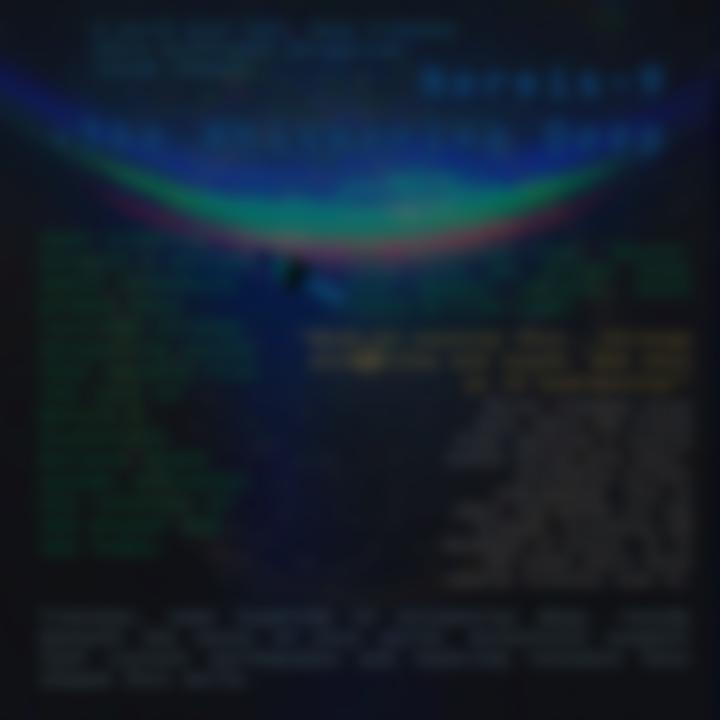
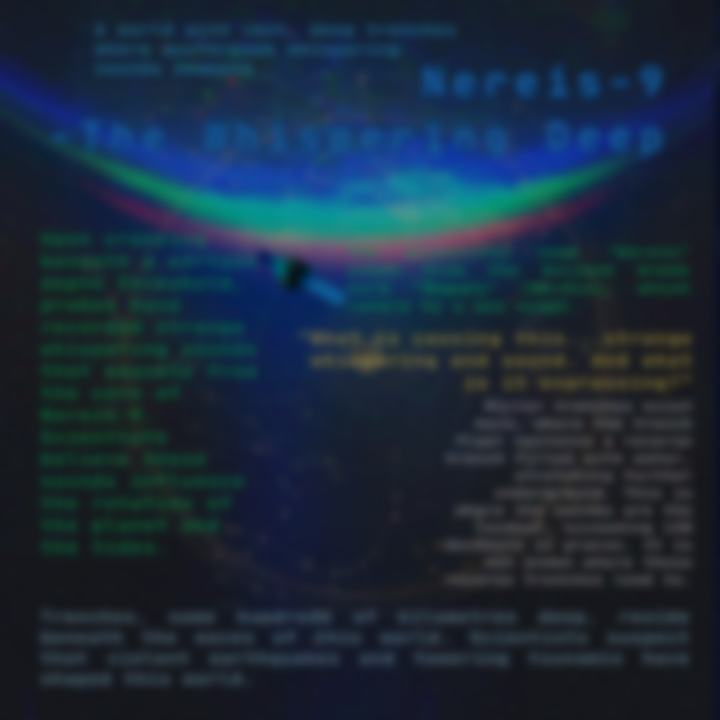
Water Planets booklet: stars and planets instead of bubbles; art shows more behind the text

diff --git a/water-planets.html b/water-planets.html
@@ -58,7 +58,8 @@
   /* each part sits on a soft backdrop of its own page, blurred, so the words always read clearly */
   .band { position: relative; overflow: hidden; padding: 3.6rem 0; isolation: isolate; }
   .band .bd { position: absolute; left: 0; right: 0; top: -16%; bottom: -16%; z-index: -2; background-size: cover; background-position: center; will-change: transform; }
-  .band::after { content: ""; position: absolute; inset: 0; z-index: -1; background: linear-gradient(rgba(5, 13, 24, 0.28), rgba(5, 13, 24, 0.55) 55%, rgba(5, 13, 24, 0.7)); }
+  .band::after { content: ""; position: absolute; inset: 0; z-index: -1; background: linear-gradient(rgba(5, 13, 24, 0.12), rgba(5, 13, 24, 0.34) 55%, rgba(5, 13, 24, 0.5)); }
+  .band p, .band li, .band blockquote, .band h3 { text-shadow: 0 1px 10px rgba(2, 8, 16, 0.9), 0 0 3px rgba(2, 8, 16, 0.8); }
   .band.plain::after { background: none; }
   .band .wrap { position: relative; }
   h2 { margin: 0 0 1.5rem; font-weight: 300; font-size: 1.3em; line-height: 1.35; letter-spacing: 0.08em; color: var(--aqua); }
@@ -115,8 +116,8 @@
   .js .data.reveal.in { animation: flick 1.1s steps(1, end) 1; }
   @keyframes flick { 0% { opacity: 0.1; } 12% { opacity: 1; } 18% { opacity: 0.25; } 30% { opacity: 1; } 38% { opacity: 0.6; } 50% { opacity: 1; } 100% { opacity: 1; } }
 
-  /* bubbles and ripples drift over everything, very faintly */
-  #bubbles { position: fixed; inset: 0; width: 100%; height: 100%; z-index: 3; pointer-events: none; }
+  /* stars and small planets drift over everything, very faintly */
+  #sky { position: fixed; inset: 0; width: 100%; height: 100%; z-index: 3; pointer-events: none; }
 </style>
 </head>
 <body>
@@ -330,7 +331,7 @@
   <p class="links"><a href="./" target="_top">deepspace home</a></p>
 </main>
 
-<canvas id="bubbles" aria-hidden="true"></canvas>
+<canvas id="sky" aria-hidden="true"></canvas>
 <script>
 (function () {
   // ---- backdrops: put each section's picture behind it and move it slower than the text ----
@@ -371,42 +372,56 @@
     Array.prototype.forEach.call(items, function (el) { el.classList.add('in'); });
   }
 
-  // ---- bubbles rising and now and then a ripple ----
-  var cv = document.getElementById('bubbles'), ctx = cv.getContext('2d');
-  var W = 0, H = 0, dpr = 1, bub = [], rip = [], last = 0;
+  // ---- twinkling stars and a few small planets that drift, moving a little with the scroll ----
+  var cv = document.getElementById('sky'), ctx = cv.getContext('2d');
+  var W = 0, H = 0, dpr = 1, stars = [], planets = [], last = 0, sy = 0;
+  window.addEventListener('scroll', function () { sy = window.pageYOffset || 0; }, { passive: true });
   function size() {
     dpr = Math.min(window.devicePixelRatio || 1, 2);
     W = window.innerWidth; H = window.innerHeight;
     cv.width = W * dpr; cv.height = H * dpr; ctx.setTransform(dpr, 0, 0, dpr, 0, 0);
-    bub = [];
-    var n = Math.round(Math.min(46, Math.max(18, W / 22)));
-    for (var i = 0; i < n; i++) bub.push(spawn(true));
+    stars = [];
+    var n = Math.round(Math.min(150, Math.max(60, W * H / 5200)));
+    for (var i = 0; i < n; i++) {
+      var layer = Math.random();
+      stars.push({ x: Math.random() * W, y: Math.random() * H, r: 0.4 + Math.random() * 1.3, par: layer < 0.6 ? 0.04 : (layer < 0.9 ? 0.1 : 0.22),
+                   t: Math.random() * 6.28, f: 0.6 + Math.random() * 1.8, a: 0.35 + Math.random() * 0.5 });
+    }
+    var small = W < 700, R = small ? 1 : 1.5;
+    planets = [
+      { x: W * 0.84, y: H * 0.20, r: 26 * R, c: [70, 190, 210],  par: 0.07, dx: -3.0, ring: false, moon: true },
+      { x: W * 0.12, y: H * 0.62, r: 38 * R, c: [210, 120, 70],  par: 0.12, dx:  2.2, ring: true,  moon: false },
+      { x: W * 0.70, y: H * 0.86, r: 18 * R, c: [150, 110, 220], par: 0.05, dx: -2.0, ring: false, moon: false }
+    ];
   }
-  function spawn(anywhere) {
-    return { x: Math.random() * W, y: anywhere ? Math.random() * H : H + 20, r: 1.5 + Math.random() * 5.5,
-             v: 14 + Math.random() * 38, w: Math.random() * 6.28, ws: 0.4 + Math.random() * 1.2, a: 0.1 + Math.random() * 0.22 };
+  function planet(p, t) {
+    var y = ((p.y - sy * p.par) % (H + 300) + (H + 300)) % (H + 300) - 150;
+    var x = p.x + Math.sin(t * 0.00012 + p.r) * 14;
+    ctx.save(); ctx.globalAlpha = 0.5;
+    if (p.ring) { ctx.strokeStyle = 'rgba(230,200,160,0.45)'; ctx.lineWidth = 2.2; ctx.beginPath(); ctx.ellipse(x, y, p.r * 1.9, p.r * 0.5, -0.35, 0, 6.2832); ctx.stroke(); }
+    var g = ctx.createRadialGradient(x - p.r * 0.4, y - p.r * 0.4, p.r * 0.1, x, y, p.r);
+    g.addColorStop(0, 'rgba(' + Math.min(255, p.c[0] + 70) + ',' + Math.min(255, p.c[1] + 70) + ',' + Math.min(255, p.c[2] + 70) + ',1)');
+    g.addColorStop(0.55, 'rgba(' + p.c[0] + ',' + p.c[1] + ',' + p.c[2] + ',1)');
+    g.addColorStop(1, 'rgba(' + (p.c[0] >> 2) + ',' + (p.c[1] >> 2) + ',' + (p.c[2] >> 2) + ',1)');
+    ctx.fillStyle = g; ctx.beginPath(); ctx.arc(x, y, p.r, 0, 6.2832); ctx.fill();
+    if (p.ring) { ctx.strokeStyle = 'rgba(230,200,160,0.55)'; ctx.lineWidth = 2.2; ctx.beginPath(); ctx.ellipse(x, y, p.r * 1.9, p.r * 0.5, -0.35, 0.1, 3.0); ctx.stroke(); }
+    if (p.moon) {
+      var a = t * 0.0004, mx = x + Math.cos(a) * p.r * 2, my = y + Math.sin(a) * p.r * 0.7;
+      ctx.fillStyle = 'rgba(200,200,205,0.95)'; ctx.beginPath(); ctx.arc(mx, my, p.r * 0.2, 0, 6.2832); ctx.fill();
+    }
+    ctx.restore();
   }
   function frame(t) {
-    var dt = Math.min((t - (last || t)) / 1000, 0.1); last = t;
     ctx.clearRect(0, 0, W, H);
-    for (var i = 0; i < bub.length; i++) {
-      var b = bub[i];
-      b.y -= b.v * dt; b.w += b.ws * dt; var x = b.x + Math.sin(b.w) * 10;
-      if (b.y < -20) bub[i] = spawn(false);
-      ctx.beginPath(); ctx.arc(x, b.y, b.r, 0, 6.2832);
-      ctx.strokeStyle = 'rgba(190,245,240,' + b.a + ')'; ctx.lineWidth = 1; ctx.stroke();
-      ctx.beginPath(); ctx.arc(x - b.r * 0.35, b.y - b.r * 0.35, Math.max(0.6, b.r * 0.22), 0, 6.2832);
-      ctx.fillStyle = 'rgba(255,255,255,' + (b.a * 1.6) + ')'; ctx.fill();
+    for (var i = 0; i < stars.length; i++) {
+      var s = stars[i];
+      var y = ((s.y - sy * s.par) % H + H) % H;
+      var tw = 0.55 + 0.45 * Math.sin(t * 0.001 * s.f + s.t);
+      ctx.fillStyle = 'rgba(220,240,255,' + (s.a * tw) + ')';
+      ctx.beginPath(); ctx.arc(s.x, y, s.r, 0, 6.2832); ctx.fill();
+      if (s.r > 1.3) { ctx.fillRect(s.x - s.r * 3, y - 0.4, s.r * 6, 0.8); ctx.fillRect(s.x - 0.4, y - s.r * 3, 0.8, s.r * 6); }
     }
-    if (Math.random() < dt * 0.25) rip.push({ x: Math.random() * W, y: Math.random() * H, r: 4, a: 0.22 });
-    for (var j = rip.length - 1; j >= 0; j--) {
-      var p = rip[j]; p.r += 38 * dt; p.a -= 0.07 * dt;
-      if (p.a <= 0) { rip.splice(j, 1); continue; }
-      for (var k = 0; k < 3; k++) {
-        ctx.beginPath(); ctx.ellipse(p.x, p.y, p.r - k * 9 > 0 ? p.r - k * 9 : 0.1, (p.r - k * 9 > 0 ? p.r - k * 9 : 0.1) * 0.35, 0, 0, 6.2832);
-        ctx.strokeStyle = 'rgba(160,240,235,' + (p.a * (1 - k * 0.3)) + ')'; ctx.lineWidth = 1; ctx.stroke();
-      }
-    }
+    for (var j = 0; j < planets.length; j++) planet(planets[j], t);
     requestAnimationFrame(frame);
   }
   window.addEventListener('resize', size);
